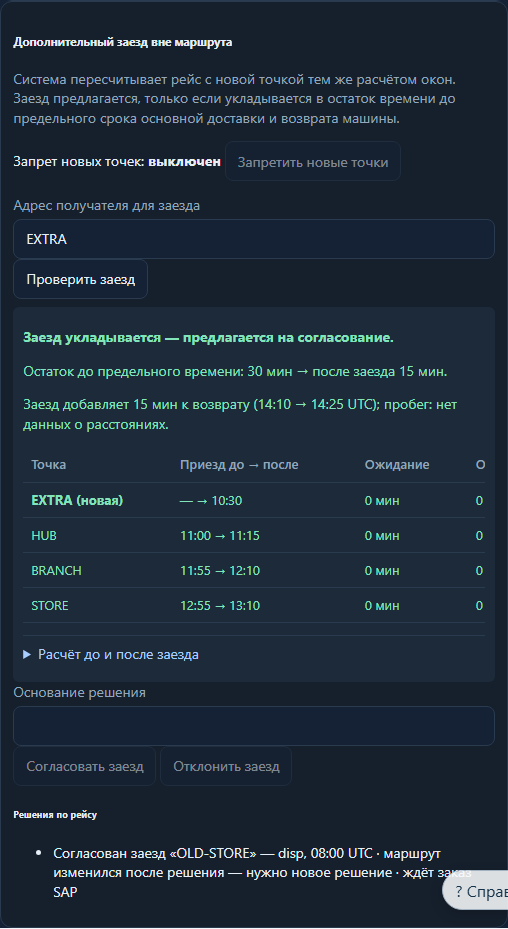
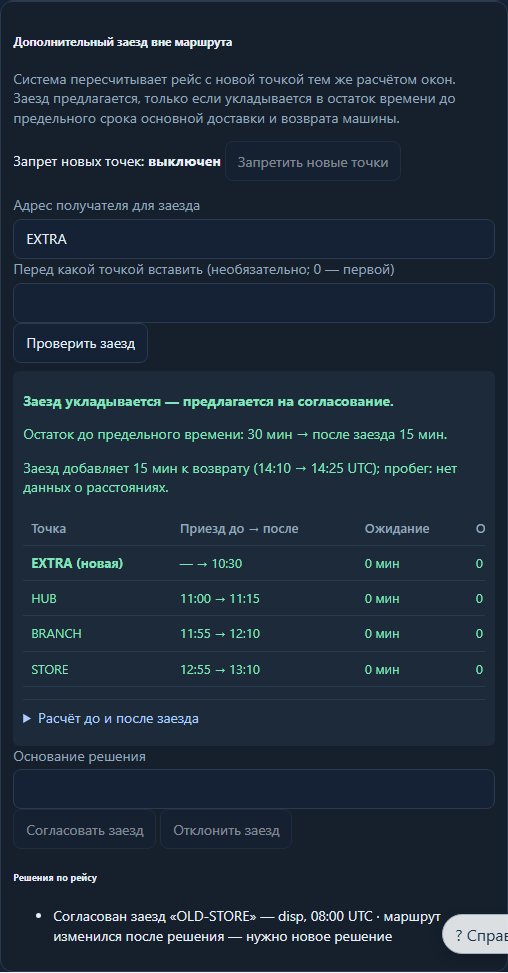
C-0154 review: private pure evaluation, caller cannot supply route data, measured cost bound with dispatcher insertion position

diff --git a/admin/wms_admin_frontend/src/features/integrations/tradecase/ExtraStop.tsx b/admin/wms_admin_frontend/src/features/integrations/tradecase/ExtraStop.tsx
@@ -31,11 +31,13 @@ const mins = (v: number | string | null | undefined) => (v === null || v === und
 const WHY: Record<string, string> = { BASE_ROUTE_NOT_CONFIRMED: "сам основной маршрут ещё не рассчитан полностью — обещать заезд нельзя",
   EXTRA_STOP_INPUTS_MISSING: "для новой точки не хватает данных (время в пути до неё, норма разгрузки или окно приёма)",
   EXTRA_ADDRESS_NOT_UNIQUE: "адрес не найден в справочнике или найден несколько раз", EXTRA_STOP_BREAKS_DEADLINE: "заезд не укладывается в остаток до предельного времени",
-  NEW_STOPS_FORBIDDEN: "для рейса включён запрет новых точек" };
+  NEW_STOPS_FORBIDDEN: "для рейса включён запрет новых точек",
+  EXTRA_STOP_POSITION_REQUIRED: "маршрут длинный — укажите, перед какой точкой вставить заезд, и проверьте снова",
+  EXTRA_STOP_POSITION_INVALID: "такой позиции вставки в маршруте нет" };
 
 export function ExtraStop({ wh, user, trip }: { wh: string; user: string; trip: number }) {
-  const [address, setAddress] = useState(""), [asked, setAsked] = useState(""), [reload, setReload] = useState(0), [reason, setReason] = useState("");
-  const ev = useRead<Evaluation>(asked ? `/api/transport/preflight/trips/${trip}/extra-stops?address=${encodeURIComponent(asked)}&zone=UTC` : null, reload);
+  const [address, setAddress] = useState(""), [asked, setAsked] = useState(""), [pos, setPos] = useState(""), [askedPos, setAskedPos] = useState(""), [reload, setReload] = useState(0), [reason, setReason] = useState("");
+  const ev = useRead<Evaluation>(asked ? `/api/transport/preflight/trips/${trip}/extra-stops?address=${encodeURIComponent(asked)}&zone=UTC${askedPos ? `&position=${askedPos}` : ""}` : null, reload);
   const hist = useRead<Decisions>(`/api/transport/preflight/trips/${trip}/extra-stops/decisions`, reload);
   const cmd = useCommand<Body, Receipt>(pending, `/api/transport/preflight/trips/${trip}/extra-stops`, user, wh, reasons,
     (r, b) => r.operation_id !== b.operation_id ? null : b.action === "APPROVE" ? "Заезд согласован. Новая точка появится после заказа SAP; SAP сейчас недоступен — заказ не создан."
@@ -58,8 +60,9 @@ export function ExtraStop({ wh, user, trip }: { wh: string; user: string; trip: 
         disabled={locked || reason.trim().length < 3} onClick={() => cmd.start({ trip_id: trip, action: "SET_POLICY", reason: reason.trim(),
           new_stops_forbidden: !policy.new_stops_forbidden, expected_policy_version: policy.policy_version }, after)}>{policy.new_stops_forbidden ? "Снять запрет" : "Запретить новые точки"}</Act></p>}
     <label>Адрес получателя для заезда <input value={address} maxLength={255} disabled={locked} onChange={x => setAddress(x.target.value)} /></label>
+    <label>Перед какой точкой вставить (необязательно; 0 — первой) <input value={pos} inputMode="numeric" maxLength={3} disabled={locked} onChange={x => setPos(x.target.value.replace(/\D/g, ""))} /></label>
     <Act help={help("check", "Пересчитать рейс с этим адресом в каждой возможной точке вставки и показать, укладывается ли заезд.")} disabled={!address.trim()}
-      onClick={() => { setAsked(address.trim()); setReload(n => n + 1); }}>Проверить заезд</Act>
+      onClick={() => { setAsked(address.trim()); setAskedPos(/^\d{1,3}$/.test(pos) ? pos : ""); setReload(n => n + 1); }}>Проверить заезд</Act>
     {ev.error && <p role="alert" className="tc-err">Проверка не выполнена: {ev.error}</p>}
     {ev.loading && asked && <p className="tc-note">Пересчитываем маршрут…</p>}
     {e && e.address === asked && <Verdict e={e} />}

diff --git a/reports/tradecase/2026-10-23/claude/C0154/scripts/material_cost_live.py b/reports/tradecase/2026-10-23/claude/C0154/scripts/material_cost_live.py
@@ -1,0 +1,31 @@
+"""C-0154: READ ONLY cost of the native calls one extra-stop variant makes (RRL_STORE_WINDOW_RULES.material, RRL_TT_ROUTE_SCHEDULE.material,
+calculate) on REAL trip sources; projects the evaluation cost for n stops = 1 + (n+1) calculate + 2(n+1) material. No writes."""
+import json, sys, time, pathlib, statistics
+sys.path.insert(0, "C:/projects/TMS/scripts"); sys.path.insert(0, "C:/projects/TMS/api/wms_api_server")
+from stock_posting_environment import load_local_oracle_environment; load_local_oracle_environment()
+import oracledb
+from app.oracle_gateway import OracleGateway
+from app.modules.platform.public import read_oracle_json
+
+out = {"kind": "REAL_TRIP_SOURCES_READ_ONLY_NATIVE_CALL_COST"}
+with OracleGateway().transaction("C-0154 material cost READ ONLY") as cur:
+    cur.execute("set transaction read only")
+    cur.execute("""select p.TRANSTASK_ID,count(distinct p.ADDR) n from RRL_SBORKA_PALLETS p join RRL_TRANSPORT_TASK t on t.ID=p.TRANSTASK_ID
+      group by p.TRANSTASK_ID order by n desc fetch first 1 rows only""")
+    biggest, biggest_n = cur.fetchone()
+    for trip in (33665, 33564, int(biggest)):
+        ctx = cur.var(oracledb.DB_TYPE_CLOB); cur.callproc("RRL_TT_TIME_API.context", [trip, "admin", ctx]); src = read_oracle_json(ctx.getvalue())["source"]
+        wire = json.dumps(src, ensure_ascii=False); n = len(src["route_material"]["stops"])
+        timings = {}
+        for name, proc, args in [("window_material", "RRL_STORE_WINDOW_RULES.material", 1), ("route_material", "RRL_TT_ROUTE_SCHEDULE.material", 1), ("calculate", "RRL_TT_ROUTE_SCHEDULE.calculate", 2)]:
+            ms = []
+            for _ in range(10):
+                w = cur.var(oracledb.DB_TYPE_CLOB); w.setvalue(0, wire); r = cur.var(oracledb.DB_TYPE_CLOB)
+                t = time.perf_counter(); cur.callproc(proc, [w, r] if args == 1 else [w, "UTC", r]); ms.append((time.perf_counter() - t) * 1000)
+            timings[name] = round(statistics.median(ms), 1)
+        per_variant = timings["window_material"] + timings["route_material"] + timings["calculate"]
+        projected = round(timings["calculate"] + (n + 1) * per_variant, 1)
+        out[str(trip)] = {"stops": n, "median_ms": timings, "per_variant_ms": round(per_variant, 1), "calls": {"calculate": n + 2, "material": 2 * (n + 1)}, "projected_evaluate_ms": projected}
+        print(trip, out[str(trip)])
+    out["largest_trip_by_addresses"] = {"trip": int(biggest), "addresses": int(biggest_n)}
+pathlib.Path(__file__).parent.parent.joinpath("material-cost-live.json").write_text(json.dumps(out, indent=1), encoding="utf-8")

diff --git a/tests/tradecase/test_trade_extra_stop.py b/tests/tradecase/test_trade_extra_stop.py
@@ -96,7 +96,7 @@ def test_decision_is_one_native_command_with_the_trip_and_only_its_receipt_count
 
 def test_routes():
     class Service:
-        def evaluate(self, trip, address, zone, actor):
+        def evaluate(self, trip, address, zone, actor, position=None):
             return {"trip": trip, "address": address, "zone": zone, "actor": actor}
 
         def decisions(self, trip, actor):
@@ -154,3 +154,14 @@ def test_live_evidence_matches_the_program_example():
     assert data["extra_45_slack_30"]["decision"] == "REJECT"
     assert data["new_stops_forbidden"]["decision"] == "FORBIDDEN"
     assert data["extra_legs_unknown"]["decision"] == "UNKNOWN" and data["extra_rule_missing"]["decision"] == "UNKNOWN"
+    assert data["extra_15_position_2"]["decision"] == "PROPOSE" and data["extra_15_position_2"]["position"] == 2
+    assert [v["position"] for v in data["extra_15_position_2"]["variants"]] == [2]  # a chosen position evaluates exactly one variant
+
+
+def test_evaluation_is_bounded_and_caller_cannot_supply_route_data():
+    spec = API[:API.index("create or replace package body")]
+    assert "evaluate_source" not in spec  # the pure part with controlled legs is private
+    evaluate = body_of("function evaluate(p_trip number")
+    assert "q.remove('extra_rule');q.remove('new_stops_forbidden')" in evaluate and "evaluate_source(c.get_object('source').to_clob,q.to_clob)" in evaluate
+    source = body_of("function evaluate_source(")
+    assert "stops.get_size>20 then" in source and "EXTRA_STOP_POSITION_REQUIRED" in source and "for pos in nvl(pick,0)..nvl(pick,stops.get_size)loop" in source

diff --git a/reports/tradecase/2026-10-23/claude/C0154/scripts/extra_stop_pure_live.py b/reports/tradecase/2026-10-23/claude/C0154/scripts/extra_stop_pure_live.py
@@ -47,6 +47,7 @@ CASES = {
     "extra_45_slack_30": (source("13:40:00", "14:40:00"), {"address": "EXTRA", "zone": "Europe/Moscow", "extra_rule": RULE}, legs(45)),
     "new_stops_forbidden": (source("13:40:00", "14:40:00"), {"address": "EXTRA", "zone": "Europe/Moscow", "extra_rule": RULE, "new_stops_forbidden": True}, legs(15)),
     "extra_legs_unknown": (source("13:40:00", "14:40:00"), {"address": "EXTRA", "zone": "Europe/Moscow", "extra_rule": RULE}, [l for l in legs(15) if l["to_address"] != "EXTRA"]),
+    "extra_15_position_2": (source("13:40:00", "14:40:00"), {"address": "EXTRA", "zone": "Europe/Moscow", "extra_rule": RULE, "position": 2}, legs(15)),
     "extra_rule_missing": (source("13:40:00", "14:40:00"), {"address": "EXTRA", "zone": "Europe/Moscow", "extra_rule": {**RULE, "unload_norm_min": None}}, legs(15)),
 }
 

diff --git a/api/wms_api_server/app/modules/transport/infrastructure/extra_stop.py b/api/wms_api_server/app/modules/transport/infrastructure/extra_stop.py
@@ -30,8 +30,8 @@ class OracleExtraStop:
         except oracledb.DatabaseError as exc:
             raise _error(exc) from exc
 
-    def evaluate(self, trip: int, address: str, zone: str, actor: str) -> dict[str, Any]:
-        request = json.dumps({"address": address, "zone": zone}, ensure_ascii=False)
+    def evaluate(self, trip: int, address: str, zone: str, actor: str, position: int | None = None) -> dict[str, Any]:
+        request = json.dumps({"address": address, "zone": zone, **({"position": position} if position is not None else {})}, ensure_ascii=False)
         return self._read("Extra stop evaluation READ ONLY", "RRL_TRADE_EXTRA_STOP_API.evaluate", [trip, actor, request])
 
     def decisions(self, trip: int, actor: str) -> dict[str, Any]:

diff --git a/api/wms_api_server/app/modules/transport/api/extra_stop_routes.py b/api/wms_api_server/app/modules/transport/api/extra_stop_routes.py
@@ -18,9 +18,10 @@ def _call(run: Callable[[], dict[str, Any]]) -> dict[str, Any]:
 
 @router.get("")
 def evaluate(trip_id: int = Path(gt=0), address: str = Query(min_length=1, max_length=255), zone: Zone = Query(default="UTC"),
+             position: int | None = Query(default=None, ge=0, le=200),
              user: AdminUser = Depends(require_permission("transport_dispatch_edit")),
              service: ExtraStopPort = Depends(extra_stop_service)) -> dict[str, Any]:
-    return _call(lambda: service.evaluate(trip_id, address.strip(), zone, user.username))
+    return _call(lambda: service.evaluate(trip_id, address.strip(), zone, user.username, position))
 
 
 @router.get("/decisions")

diff --git a/api/wms_api_server/app/modules/transport/contracts_extra_stop.py b/api/wms_api_server/app/modules/transport/contracts_extra_stop.py
@@ -38,7 +38,7 @@ class ExtraStopError(RuntimeError):
 
 
 class ExtraStopPort(Protocol):
-    def evaluate(self, trip: int, address: str, zone: str, actor: str) -> dict[str, Any]: ...
+    def evaluate(self, trip: int, address: str, zone: str, actor: str, position: int | None = None) -> dict[str, Any]: ...
     def decisions(self, trip: int, actor: str) -> dict[str, Any]: ...
     def command(self, trip: int, body: ExtraStopCommand, actor: str) -> dict[str, Any]: ...
 
